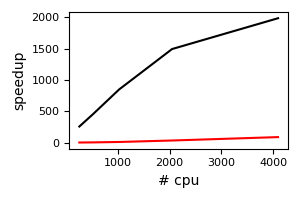
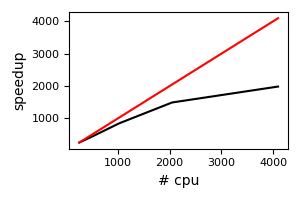
Fixed speedup.png fully

diff --git a/benchmarks/plot_steps_per_atom.py b/benchmarks/plot_steps_per_atom.py
@@ -37,9 +37,10 @@ plt.xlabel('# cpu')
 plt.tight_layout()
 
 plt.figure(2,figsize=size)
-plt.plot(data[:,0],data[:,0]/data[:,1],'r')
 
 plt.plot(data[:,0],data[0,1]*data[0,0]/data[:,1],'k')
+
+plt.plot(data[:,0],data[:,0],'r')
 plt.ylabel('speedup')
 plt.xlabel('# cpu')
 plt.tight_layout()
